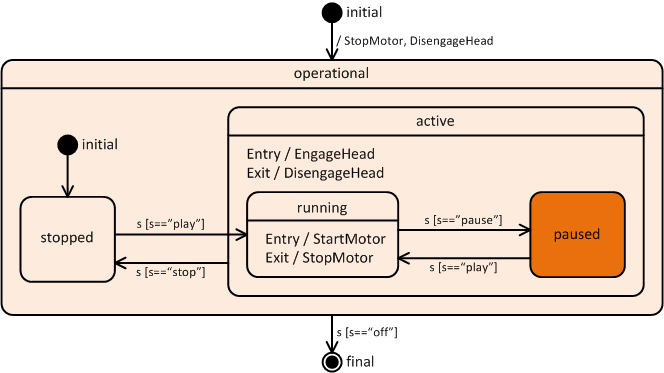
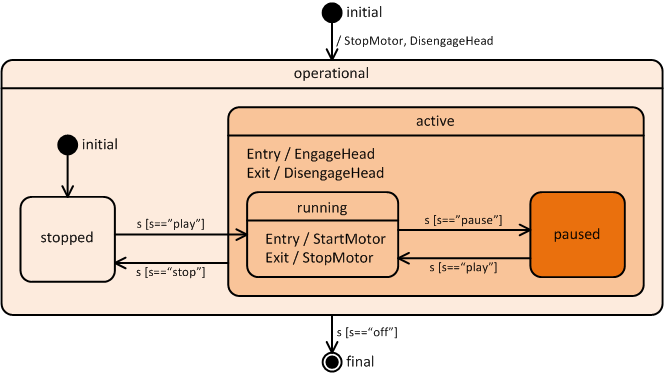
Updates example code to match the graphics. Updated example graphics to better reflect heirarcical state. Re-factored updating the example graphics. Added Region.Reset and State.Reset Changed Region.Current to always be present.

Changed region(s): [[0.3313, 0.2654, 0.994, 0.7962]]

diff --git a/examples/test.html b/examples/test.html
@@ -6,12 +6,13 @@
 		<script src="../src/state.js"></script>
 		<script>
 			// create the state machine
-			var player = new Region( "player" );
+			var controller = new Region( "player" );
 		
 			// create some states
-			var initial = new PseudoState( PseudoStateKind.Initial, player );
-			var operational = new State( "operational", player );
-			var finalState = new FinalState( "final", player );
+			var initial1 = new PseudoState( PseudoStateKind.Initial, controller );
+			var operational = new State( "operational", controller );
+			var finalState = new FinalState( "final", controller );
+			var initial2 = new PseudoState( PseudoStateKind.Initial, operational );
 			var stopped = new State( "stopped", operational );
 			var active = new State( "active", operational );		
 			var running = new State( "running", active);
@@ -24,7 +25,8 @@
 			running.Exit.push( StopMotor );
 			
 			// create the transitions
-			var initialise = new Completion( initial, stopped );
+			var initialise = new Completion( initial1, operational );
+			new Completion( initial2, stopped );
 			new Transition( stopped, running, function( s ) { return ( s == "play" ); } );
 			new Transition( active, stopped, function( s ) { return s == "stop"; } );
 			new Transition( running, paused, function( s ) { return s == "pause"; } );
@@ -55,22 +57,27 @@
 			}
 			
 			// a little more behavior to adjust the graphic
-			stopped.Entry.push( function() { document.getElementById( "diagram" ).src = "controller_stopped.png"; } );
-			running.Entry.push( function() { document.getElementById( "diagram" ).src = "controller_running.png"; } );
-			paused.Entry.push( function() { document.getElementById( "diagram" ).src = "controller_paused.png"; } );
-			operational.Exit.push( function() { document.getElementById( "diagram" ).src = "controller_final.png"; } );
+			stopped.Entry.push( function() { UpdateGraphic( "controller_stopped.png" ); } );
+			running.Entry.push( function() { UpdateGraphic( "controller_running.png" ); } );
+			paused.Entry.push( function() { UpdateGraphic( "controller_paused.png" ); } );
+			operational.Exit.push( function() { UpdateGraphic( "controller_final.png" ); } );
 			
-		</script>
+			function UpdateGraphic( uri )
+			{
+				document.getElementById( "diagram" ).src = uri;
+			}
+			</script>
 	</head>
-	<body onload="player.Initialise()">
+	<body onload="controller.Initialise()">
 		<h1>state.js cassette controller example</h1>
 		<p>This example implements a simple controller for a cassette player according to the model below:</p>
-		<p><img id="diagram" src="controller_stopped.png" /></p>
+		<p><img id="diagram" /></p>
 		<p>Press the buttons below to send events to the controller (check brower console for trace output):</p>
-		<button type="button" onclick="player.Process( 'play' )">Play</button>
-		<button type="button" onclick="player.Process( 'pause' )">Pause</button>
-		<button type="button" onclick="player.Process( 'stop' )">Stop</button>
-		<button type="button" onclick="player.Process( 'off' )">Off</button>
+		<button type="button" onclick="controller.Process( 'play' )">Play</button>
+		<button type="button" onclick="controller.Process( 'pause' )">Pause</button>
+		<button type="button" onclick="controller.Process( 'stop' )">Stop</button>
+		<button type="button" onclick="controller.Process( 'off' )">Off</button>
+		<button type="button" onclick="{ controller.Reset(); controller.Initialise(); }">Reset controller</button>
 		<p id="head">Head: </p>
 		<p id="motor">Motor: </p>
 	</body>

diff --git a/src/state.js b/src/state.js
@@ -80,6 +80,7 @@ function Region( name, parent )
 	this.Name = name;
 	this.Parent = parent;
 	this.IsActive = false;
+	this.Current = null;
 	this.Vertices = [];
 }
 
@@ -88,7 +89,7 @@ Region.prototype =
 	// true if a region is 'complete' (the current state is a final state)
 	IsComplete : function()
 	{
-		return this.Current && this.Current instanceof FinalState;
+		return this.Current instanceof FinalState;
 	},
 
 	// initialises a region for use or subsiquent reuse
@@ -101,22 +102,29 @@ Region.prototype =
 		
 		this.BeginEnter();
 		
-		var vertex = ( ( deepHistory || this.Initial.Kind.IsHistory ) && this.Current ) ? this.Current : this.Initial;
+		var vertex = ( ( deepHistory || this.Initial.Kind.IsHistory ) && ( this.Current !== null ) ) ? this.Current : this.Initial;
 
 		vertex.Initialise( deepHistory || this.Kind === PseudoStateKind.DeepHistory );
 	},
 
 	Process : function( message )
 	{
-		if( this.Current )
+		if( this.Current !== null )
 		{
 			this.Current.Process( message );
 		}
 	},
 
+	Reset : function()
+	{
+		this.Vertices.forEach( function( vertex ) { vertex.Reset(); } );
+		this.IsActive = false;
+		this.Current = null; // TODO: remove the property rather than set null (or init to null)
+	},
+	
 	OnExit : function()
 	{
-		if( this.Current && this.Current.IsActive === true )
+		if( this.Current !== null && this.Current.IsActive === true )
 		{
 			this.Current.OnExit();
 		}
@@ -181,6 +189,10 @@ PseudoState.prototype =
 	{
 		this.BeginEnter();
 		this.EndEnter( false );
+	},
+	
+	Reset : function()
+	{
 	},
 	
 	OnExit: function()
@@ -277,6 +289,13 @@ State.prototype =
 		return processed;
 	},
 
+	Reset : function()
+	{
+		this.Regions.forEach( function( region ) { region.Reset(); } );
+		
+		this.IsActive = false;
+	},
+	
 	OnExit : function()
 	{
 		this.Regions.forEach( function( region ) { if( region.IsActive ) { region.OnExit(); } } );
@@ -357,6 +376,11 @@ FinalState.prototype =
 	
 	Process : function( message )
 	{		
+	},
+
+	Reset : function()
+	{		
+		this.IsActive = false;
 	},
 
 	BeginEnter : function()

diff --git a/src/oldie.js b/src/oldie.js
@@ -18,6 +18,8 @@ if ( !Array.prototype.forEach )
 {
 	Array.prototype.forEach = function( fn, scope )
 	{
+		"use strict";
+
 		for(var i = 0, len = this.length; i < len; ++i) {
 			fn.call(scope, this[i], i, this);
 		}
